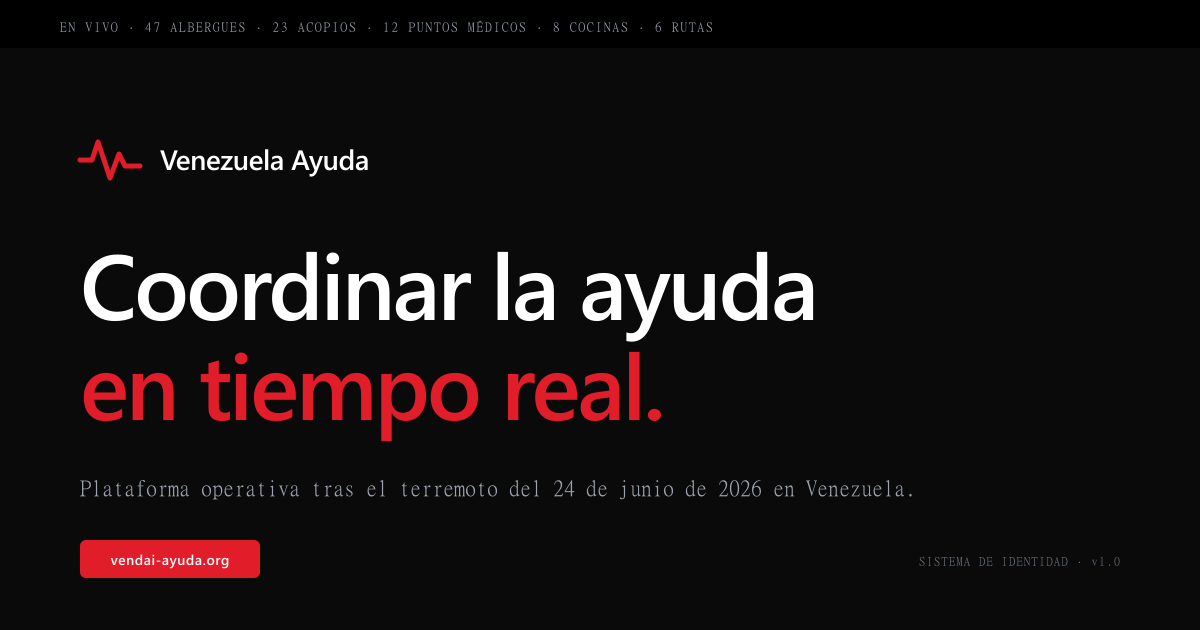
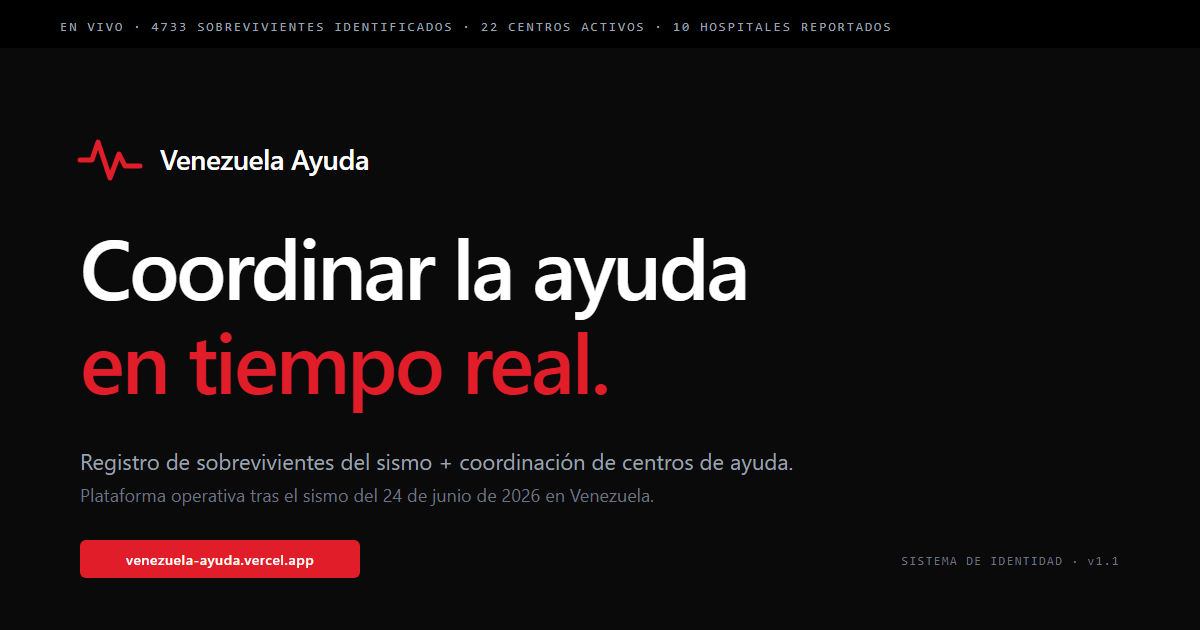
feat(landing): refresh para destacar módulo de Rescatados
- OG image (svg + png): números actuales (4733 sobrevivientes, 22 centros)
  y dominio venezuela-ayuda.vercel.app
- og:description y description sin "47 centros" hardcoded
- SHARE_TEXT con foco en búsqueda de familiares (antes decía 96 centros)
- HowItWorks: pasa de 3 a 4 pasos incluyendo "Identificamos a los
  sobrevivientes" y "Las familias buscan y encuentran"
- Index "Cuatro caminos" → "Cinco caminos": primer actor es "Buscas a
  un familiar" con CTA a /rescatados
- README: familias atendidas → sobrevivientes registrados

diff --git a/src/routes/index.tsx b/src/routes/index.tsx
@@ -13,13 +13,13 @@ export const Route = createFileRoute("/")({
       {
         name: "description",
         content:
-          "Plataforma operativa de coordinación tras el terremoto del 24 de junio de 2026. Encuentra dónde donar, cómo ayudar o registra tu centro.",
+          "Plataforma operativa tras el sismo del 24 de junio de 2026: registro de sobrevivientes identificados y coordinación de centros de ayuda en vivo.",
       },
       { property: "og:title", content: "Venezuela Ayuda · Coordinación humanitaria en vivo" },
       {
         property: "og:description",
         content:
-          "47 centros activos coordinando ayuda en tiempo real. Encuentra dónde donar o cómo ayudar hoy.",
+          "Busca a tus familiares en el registro de sobrevivientes, o suma tu apoyo a la red de centros de ayuda.",
       },
     ],
   }),
@@ -39,11 +39,22 @@ function Landing() {
             Para cada actor
           </p>
           <h2 className="font-display font-semibold text-[28px] sm:text-[32px] max-w-[30ch] leading-tight">
-            Cuatro caminos para sumarte hoy.
+            Cinco caminos para sumarte hoy.
           </h2>
 
           <div className="mt-6">
             <ActorBlock
+              etiqueta="Buscas a un familiar"
+              titulo="Encuéntralo en el registro de sobrevivientes."
+              bullets={[
+                "Base verificada con miles de personas reportadas en hospitales, albergues y refugios.",
+                "Búsqueda por nombre. Confirma identidad con cédula y lugar exacto.",
+                "Antes de movilizarte, valida con el centro — los datos provienen de reportes oficiales.",
+              ]}
+              cta={{ label: "Buscar en el registro", to: "/rescatados" }}
+            />
+            <ActorBlock
+              reverse
               etiqueta="Donador particular"
               titulo="Encuentra dónde tu donación rinde hoy."
               bullets={[
@@ -54,7 +65,6 @@ function Landing() {
               cta={{ label: "Ver qué se necesita", to: "/necesidades" }}
             />
             <ActorBlock
-              reverse
               etiqueta="Voluntario"
               titulo="Ofrece tus manos, tus horas o tu oficio."
               bullets={[
@@ -65,6 +75,7 @@ function Landing() {
               cta={{ label: "Registrarme como voluntario", to: "/voluntarios" }}
             />
             <ActorBlock
+              reverse
               etiqueta="Coordinador de centro"
               titulo="Registra tu operación en minutos."
               bullets={[
@@ -75,7 +86,6 @@ function Landing() {
               cta={{ label: "Registrar mi centro", to: "/registrar-centro" }}
             />
             <ActorBlock
-              reverse
               etiqueta="Empresa o diáspora"
               titulo="Aporta logística, capital o redes desde donde estés."
               bullets={[

diff --git a/src/components/landing/HowItWorks.tsx b/src/components/landing/HowItWorks.tsx
@@ -1,18 +1,24 @@
 const PASOS = [
   {
     label: "Paso uno",
-    titulo: "Los centros se registran",
+    titulo: "Identificamos a los sobrevivientes",
     texto:
-      "Albergues, acopios, cocinas, puntos médicos y rutas de distribución crean su ficha en minutos. Indican qué tienen, qué les falta y a quién contactar.",
+      "Equipos en hospitales, albergues y refugios reportan a quienes han llegado: nombre, cédula, lugar. Lo cargamos a una base verificada.",
   },
   {
     label: "Paso dos",
-    titulo: "Mostramos qué necesitan, en vivo",
+    titulo: "Las familias buscan y encuentran",
     texto:
-      "Cada centro actualiza inventario, capacidad y urgencias. El directorio se ordena por lo que más falta hoy, no por lo que más se publicita.",
+      "Cualquiera puede buscar por nombre en el registro. Al hacer click ve cédula, lugar exacto y condición — datos suficientes para confirmar antes de movilizarse.",
   },
   {
     label: "Paso tres",
+    titulo: "Los centros registran qué necesitan",
+    texto:
+      "Albergues, acopios, cocinas, puntos médicos y rutas crean su ficha en minutos. Indican qué tienen, qué les falta y a quién contactar.",
+  },
+  {
+    label: "Paso cuatro",
     titulo: "Tú llegas, donas o conectas",
     texto:
       "Filtras por ciudad, tipo de centro o necesidad. Coordinas directo con quien recibe. Sin intermediarios, sin formularios eternos.",
@@ -27,10 +33,10 @@ export function HowItWorks() {
           Cómo funciona
         </p>
         <h2 className="font-display font-semibold text-[28px] sm:text-[32px] max-w-[28ch] leading-tight">
-          Tres pasos. Sin cuenta, sin fricción, sin pasar por nadie.
+          Cuatro pasos. Sin cuenta, sin fricción, sin pasar por nadie.
         </h2>
 
-        <ol className="mt-10 grid grid-cols-1 md:grid-cols-3 gap-px bg-[var(--color-border)] border-hair border-[var(--color-border)] rounded-lg overflow-hidden">
+        <ol className="mt-10 grid grid-cols-1 sm:grid-cols-2 lg:grid-cols-4 gap-px bg-[var(--color-border)] border-hair border-[var(--color-border)] rounded-lg overflow-hidden">
           {PASOS.map((p) => (
             <li key={p.label} className="bg-[var(--color-surface)] p-6">
               <p className="font-mono text-[10px] uppercase tracking-label text-[var(--color-critical)]">

diff --git a/src/routes/impacto.tsx b/src/routes/impacto.tsx
@@ -18,7 +18,7 @@ export const Route = createFileRoute("/impacto")({
 });
 
 const SHARE_TEXT =
-  "Venezuela Ayuda: plataforma en vivo para coordinar ayuda humanitaria tras el terremoto. 96 centros activos necesitan tu ayuda hoy → venezuelaayuda.com";
+  "Venezuela Ayuda: registro en vivo de sobrevivientes del sismo y coordinación de centros de ayuda. Busca a tus familiares o suma tu apoyo → venezuela-ayuda.vercel.app";
 
 function formatHace(min: number): string {
   if (min < 60) return `hace ${min} min`;